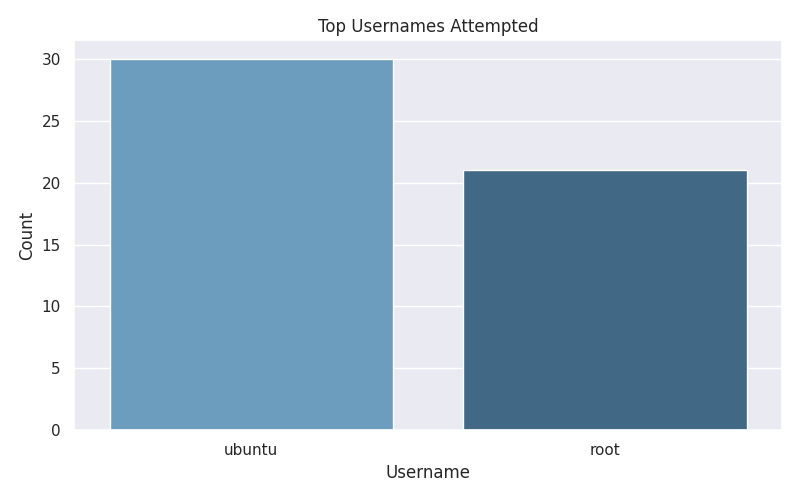
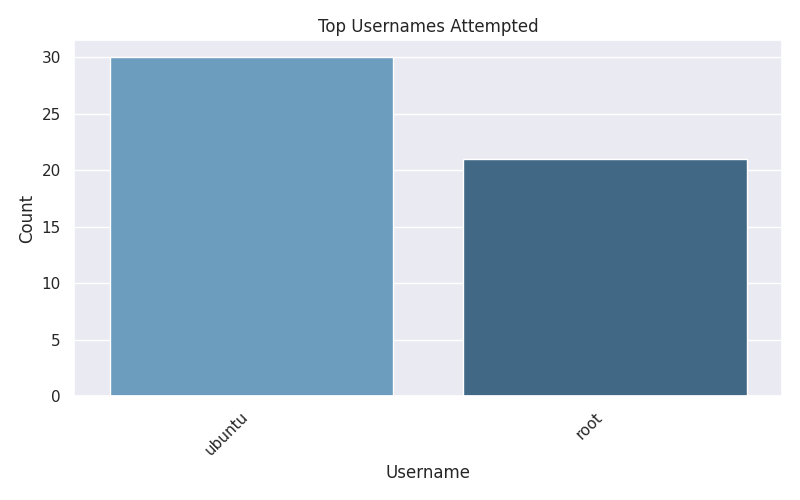
Final project complete - all scripts and results

diff --git a/visualise.py b/visualise.py
@@ -18,18 +18,20 @@ sns.barplot(x=df_attempts['username'].value_counts().index,
 plt.title('Top Usernames Attempted')
 plt.xlabel('Username')
 plt.ylabel('Count')
+plt.xticks(rotation=45, ha='right')
 plt.tight_layout()
 plt.savefig('/home/ubuntu/cloud-honeypot-analysis/results/top_usernames.png')
 plt.close()
 print("Saved top_usernames.png")
 
 # 5.1 Top passwords
-plt.figure(figsize=(10, 5))
+plt.figure(figsize=(14, 6))
 sns.barplot(x=df_attempts['password'].value_counts().index,
             y=df_attempts['password'].value_counts().values, palette='Reds_d')
 plt.title('Top Passwords Attempted')
 plt.xlabel('Password')
 plt.ylabel('Count')
+plt.xticks(rotation=90, ha='right')
 plt.tight_layout()
 plt.savefig('/home/ubuntu/cloud-honeypot-analysis/results/top_passwords.png')
 plt.close()
@@ -42,19 +44,20 @@ sns.barplot(x=df_attempts['src_ip'].value_counts().index,
 plt.title('Most Active Attacker IPs')
 plt.xlabel('Source IP')
 plt.ylabel('Login Attempts')
+plt.xticks(rotation=45, ha='right')
 plt.tight_layout()
 plt.savefig('/home/ubuntu/cloud-honeypot-analysis/results/top_ips.png')
 plt.close()
 print("Saved top_ips.png")
 
 # 5.3 Most executed commands
-plt.figure(figsize=(12, 5))
+plt.figure(figsize=(14, 6))
 cmd_counts = df_commands['input'].value_counts().head(15)
 sns.barplot(x=cmd_counts.index, y=cmd_counts.values, palette='Purples_d')
 plt.title('Most Frequently Executed Commands')
 plt.xlabel('Command')
 plt.ylabel('Count')
-plt.xticks(rotation=45, ha='right')
+plt.xticks(rotation=90, ha='right')
 plt.tight_layout()
 plt.savefig('/home/ubuntu/cloud-honeypot-analysis/results/top_commands.png')
 plt.close()
